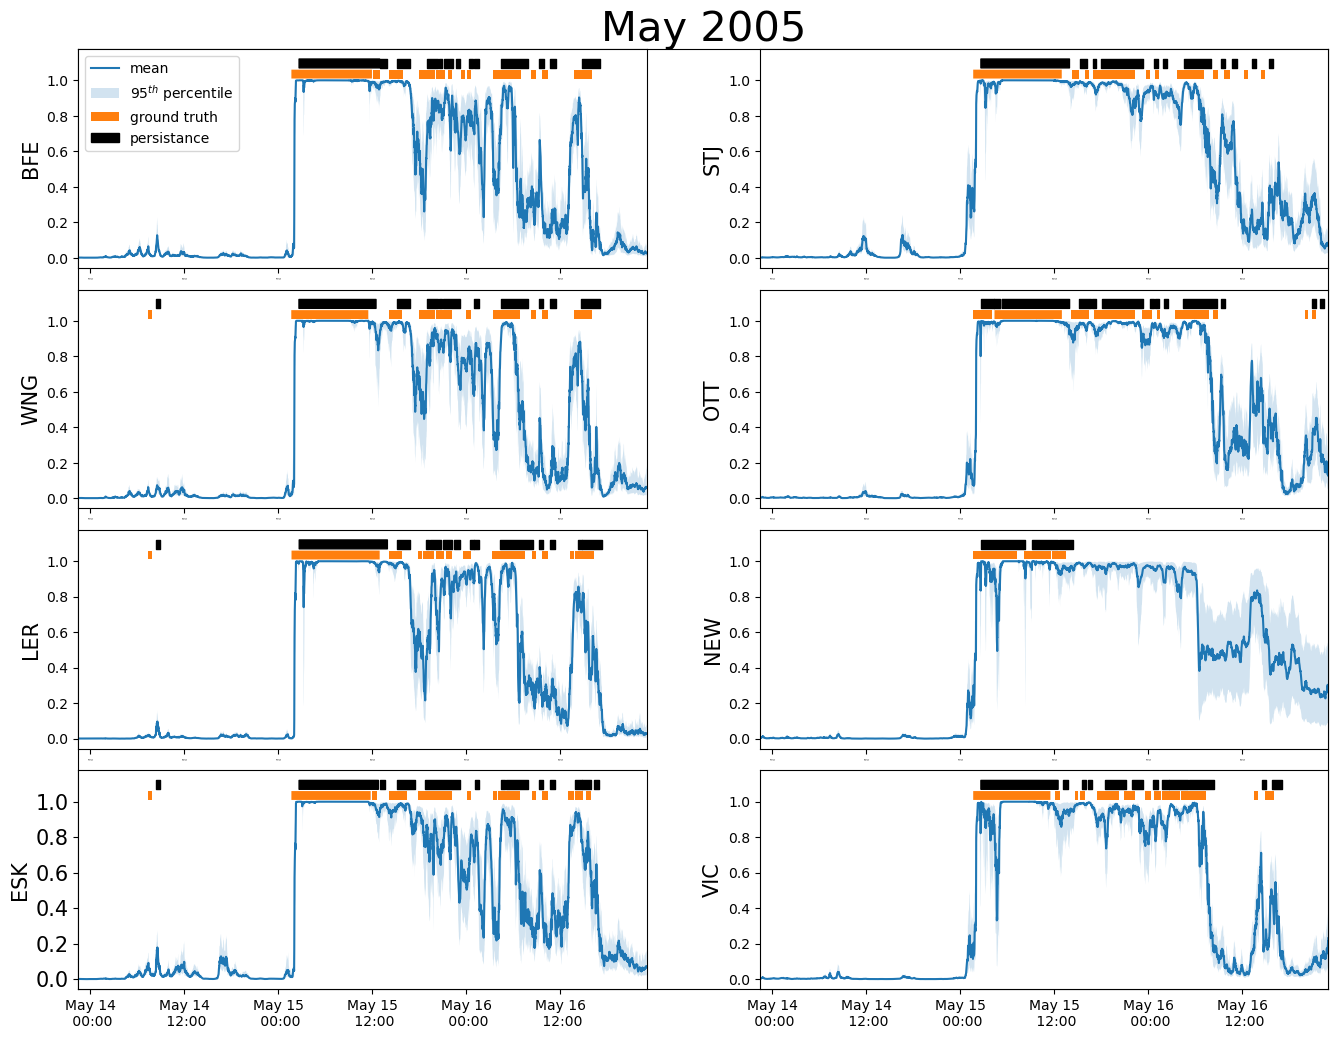
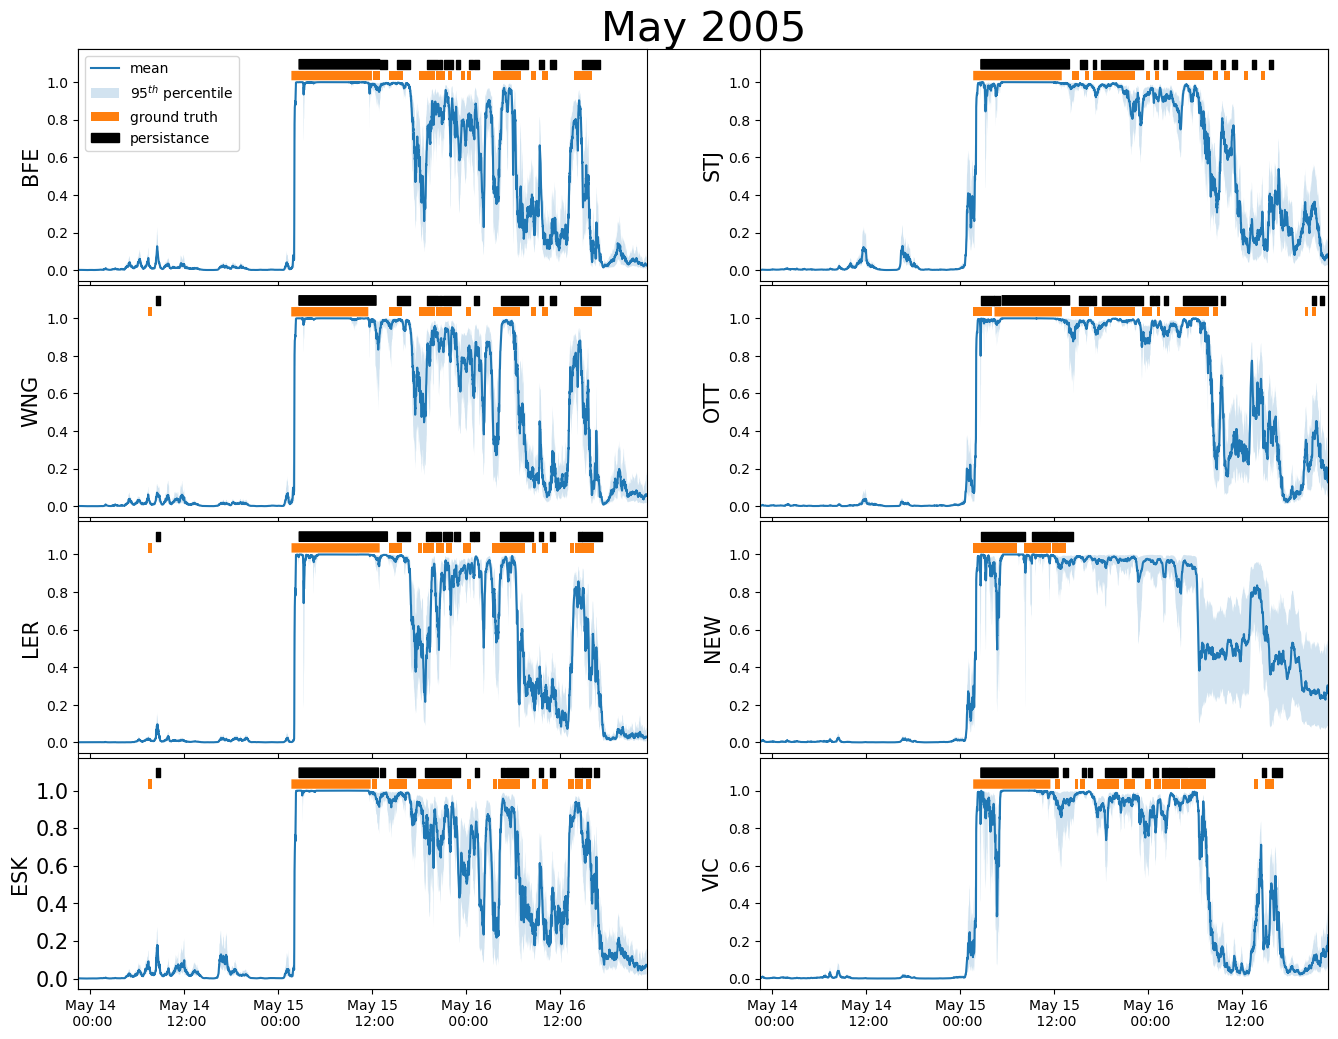
updating plots

diff --git a/plotting.py b/plotting.py
@@ -401,7 +401,7 @@ def plot_model_outputs(results_dict, storm, splits, title, stime, etime):
 
 
 	fig = plt.figure(figsize=(25,10))				# establishing the larger plot
-	plt.subplots_adjust(bottom=0.5, top=0.99, left=0.4, right=0.9, hspace=0.0.02)		# triming the whitespace in between the subplots
+	plt.subplots_adjust(bottom=0.05, top=0.99, left=0.4, right=0.9, hspace=0.02)		# triming the whitespace in between the subplots
 	plt.tick_params(left = False, right = False, labelleft = False, labelbottom = False, bottom = False)
 	plt.xticks([])
 	plt.yticks([])
